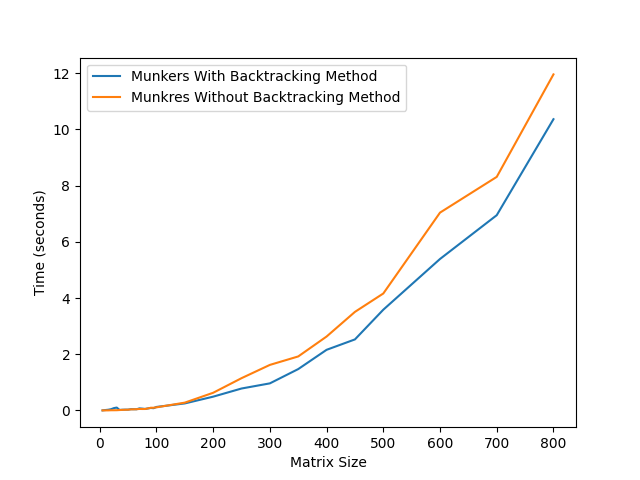
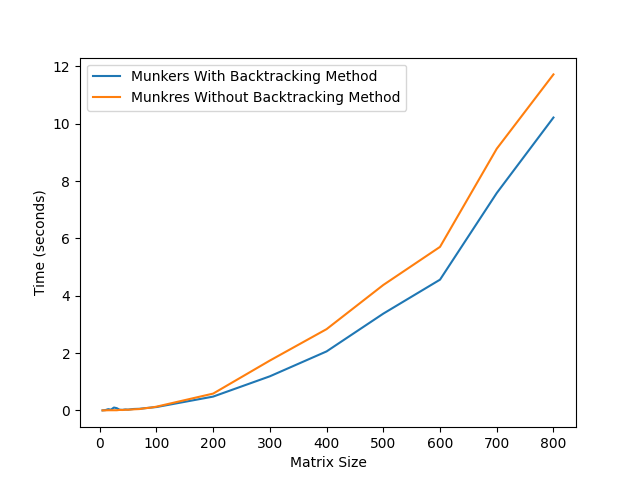
Added the comparison to fairpyx function. Added result comparison, when comparing to the original Munkers 1-1 assignment.

diff --git a/networkz/simulations/M_to_M_simulation/simulation.py b/networkz/simulations/M_to_M_simulation/simulation.py
@@ -1,0 +1,124 @@
+"""
+Comparing the performance of the custom implementation of the Kuhn-Munkres with Backtracking algorithm with the Munkres implementation.
+"""
+
+import os
+import numpy as np
+import time
+import pandas as pd
+import matplotlib.pyplot as plt
+from fairpyx.utils.graph_utils import many_to_many_matching
+from networkz.algorithms.bipartite.many_to_many_assignment import kuhn_munkers_backtracking
+import experiments_csv as ec
+
+def measure_time(func, *args) -> tuple[float, any]:
+    """
+    Measure the execution time of a function
+
+    Parameters
+    ----------
+    - `func` : function
+    - `cost_matrix` : np.array
+
+    Returns
+    ----------
+    - `time` : float
+    - `result` : any
+    """
+    start_time = time.time()
+    result = func(*args)
+    end_time = time.time()
+    return end_time - start_time, result
+
+def generate_random_test_case(num_agents, num_tasks, max_ability, max_task_range, max_performance_value):
+    """
+    Generate a random test case for the many-to-many assignment problem.
+    
+    Parameters:
+    `num_agents (int)`: Number of agents.
+    `num_tasks (int)`: Number of tasks.
+    `max_ability (int)`: Maximum ability value for an agent.
+    `max_task_range (int)`: Maximum range value for a task.
+    `max_performance_value (int)`: Maximum performance value for the matrix.
+
+    Returns:
+    `tuple`: A tuple containing the ability_agent_vector, task_range_vector, and performance_matrix.
+    """
+    ability_agent_vector = np.random.randint(1, max_ability + 1, size=num_agents)
+    task_range_vector = np.random.randint(1, max_task_range + 1, size=num_tasks)
+    
+    # Ensure the cardinality constraint is satisfied
+    if ability_agent_vector.sum() < task_range_vector.sum():
+        # Scale down task range vector to satisfy the constraint
+        factor = ability_agent_vector.sum() / task_range_vector.sum()
+        task_range_vector = np.floor(task_range_vector * factor).astype(int)
+    
+    if task_range_vector.sum() == 0:
+        task_range_vector[np.random.randint(0, num_tasks)] = 1
+
+    performance_matrix = np.random.randint(1, max_performance_value + 1, size=(num_agents, num_tasks))
+    
+    return ability_agent_vector, task_range_vector, performance_matrix
+
+def run_experiment(size: int) -> dict:
+    """
+    Run the experiment for the given size.
+
+    Parameters
+    ----------
+    - `size` : int
+
+    Returns
+    ----------
+    - `dict` : dict
+    """
+    # Generate a random cost matrix of the given size
+    ability_agent_vector, task_range_vector, performance_matrix = generate_random_test_case(50, 50, 3, 3, 100)
+
+    # Convert inputs for fairxpy function
+    item_capacities = {f"item_{i}": task_range_vector[i] for i in range(len(task_range_vector))}
+    agent_capacities = {f"agent_{i}": ability_agent_vector[i] for i in range(len(ability_agent_vector))}
+    valuations = {f"agent_{i}": {f"item_{j}": performance_matrix[i][j] for j in range(len(performance_matrix[i]))} for i in range(len(performance_matrix))}
+    
+    # Measure time for custom implementation
+    munkers_with_backtracking_time,_ = measure_time(kuhn_munkers_backtracking, performance_matrix, ability_agent_vector, task_range_vector)
+
+    # Measure time for fairxpy implementation
+    fairxpy_time, _ = measure_time(many_to_many_matching, item_capacities, agent_capacities, valuations)
+
+
+    # Return the results in the format expected by experiments_csv
+    return {
+        'size': size,
+        'munkers_with_backtracking_time': munkers_with_backtracking_time,
+        'fairxpy_many_to_many_matching_time': fairxpy_time
+    }
+
+input_ranges = {
+    'size': [5, 10, 15, 20, 25, 30, 35, 40, 45, 50, 55, 60, 65, 70, 75, 80, 85, 90, 95, 100, 150, 200, 250, 300, 350, 400, 450, 500, 550, 600, 650, 700, 750, 800]
+}
+
+# Initialize the experiment
+ex = ec.Experiment(results_folder='results', results_filename='assignment_experiment_results.csv', backup_folder='results_backup')
+
+# Run the experiment
+ex.clear_previous_results()  # Uncomment if you want to restart all experiments from scratch
+ex.run(run_experiment, input_ranges)
+
+# Load the results
+df = pd.read_csv('results/assignment_experiment_results.csv')
+
+print(df)
+
+# Plot the results
+plt.plot(df['size'], df['munkers_with_backtracking_time'], label='Munkers with Backtracking')
+plt.plot(df['size'], df['fairxpy_many_to_many_matching_time'], label='Fairxpy Many-to-Many Matching')
+plt.xlabel('Size')
+plt.ylabel('Time (seconds)')
+plt.legend()
+plot_path = 'results/performance_comparison_plot.png'
+plot_full_path = os.path.join(os.getcwd(), plot_path)
+print(plot_full_path)
+plt.savefig(plot_path)
+plt.show()
+print(f"Plot saved at {plot_path}")

diff --git a/networkz/simulations/1_to_1_simulation/simulation.py b/networkz/simulations/1_to_1_simulation/simulation.py
@@ -25,7 +25,7 @@ def munkres_assignment_method(cost_matrix: np.array):
     m = Munkres()
     indexes = m.compute(cost_matrix)
     total_cost = sum(cost_matrix[row][column] for row, column in indexes)
-    return total_cost
+    return indexes
 
 def measure_time(func, *args) -> tuple[float, any]:
     """
@@ -61,6 +61,41 @@ def generate_random_cost_matrix(size, max_value = 100) -> np.array:
     """
     return np.random.randint(1, max_value + 1, size=(size, size))
 
+def transform_munkres_result(munkres_result):
+    """
+    Transform the Munkres result to match the Backtrack result format.
+
+    Parameters
+    ----------
+    - `munkres_result` : list of tuples
+
+    Returns
+    ----------
+    - `dict` : dict
+    """
+    transformed_result = {}
+    for agent, task in munkres_result:
+        if agent in transformed_result:
+            transformed_result[agent].append(task)
+        else:
+            transformed_result[agent] = [task]
+    return transformed_result
+
+def compare_results(backtrack_result, munkres_result):
+    """
+    Compare the results of the two algorithms.
+
+    Parameters
+    ----------
+    - `backtrack_result` : dict
+    - `munkres_result` : dict
+
+    Returns
+    ----------
+    - `bool` : bool
+    """
+    return backtrack_result == munkres_result
+
 def run_experiment(size: int) -> dict:
     """
     Run the experiment for the given size.
@@ -81,20 +116,27 @@ def run_experiment(size: int) -> dict:
     task_range_vector = np.ones(size, dtype=int)
     
     # Measure time for custom implementation
-    munkers_with_backtracking_time,_ = measure_time(kuhn_munkers_backtracking, cost_matrix, ability_agent_vector, task_range_vector)
-    
+    munkers_with_backtracking_time, back_track_result = measure_time(kuhn_munkers_backtracking, cost_matrix, ability_agent_vector, task_range_vector)
+    print(f'Backtrack Result: {back_track_result}')
+
     # Measure time for Munkres implementation
-    munkres_without_backtracking_time,_ = measure_time(munkres_assignment_method, cost_matrix)
+    munkres_without_backtracking_time, munkers_result = measure_time(munkres_assignment_method, cost_matrix)
+    transform_munkred_result = transform_munkres_result(munkers_result)
+    print(f'Transformed Munkres Result: {transform_munkred_result}')
+
+    result_match = compare_results(back_track_result, transform_munkred_result)
+    print(f'Result Match: {result_match}')
     
     # Return the results in the format expected by experiments_csv
     return {
         'size': size,
         'munkers_with_backtracking_time': munkers_with_backtracking_time,
-        'munkres_without_backtracking_time': munkres_without_backtracking_time
+        'munkres_without_backtracking_time': munkres_without_backtracking_time,
+        'result_match': result_match
     }
 
 input_ranges = {
-    'size': [5, 10, 15, 20, 25, 30, 35, 40, 45, 50, 55, 60, 65, 70, 75, 80, 85, 90, 95, 100, 150, 200, 250, 300, 350, 400, 450, 500, 600, 700, 800]
+    'size': [5, 10, 15, 20, 25, 30, 35, 40, 45, 50, 60, 70, 80, 90, 100, 200, 300, 400, 500, 600, 700, 800]
 }
 
 # Initialize the experiment
